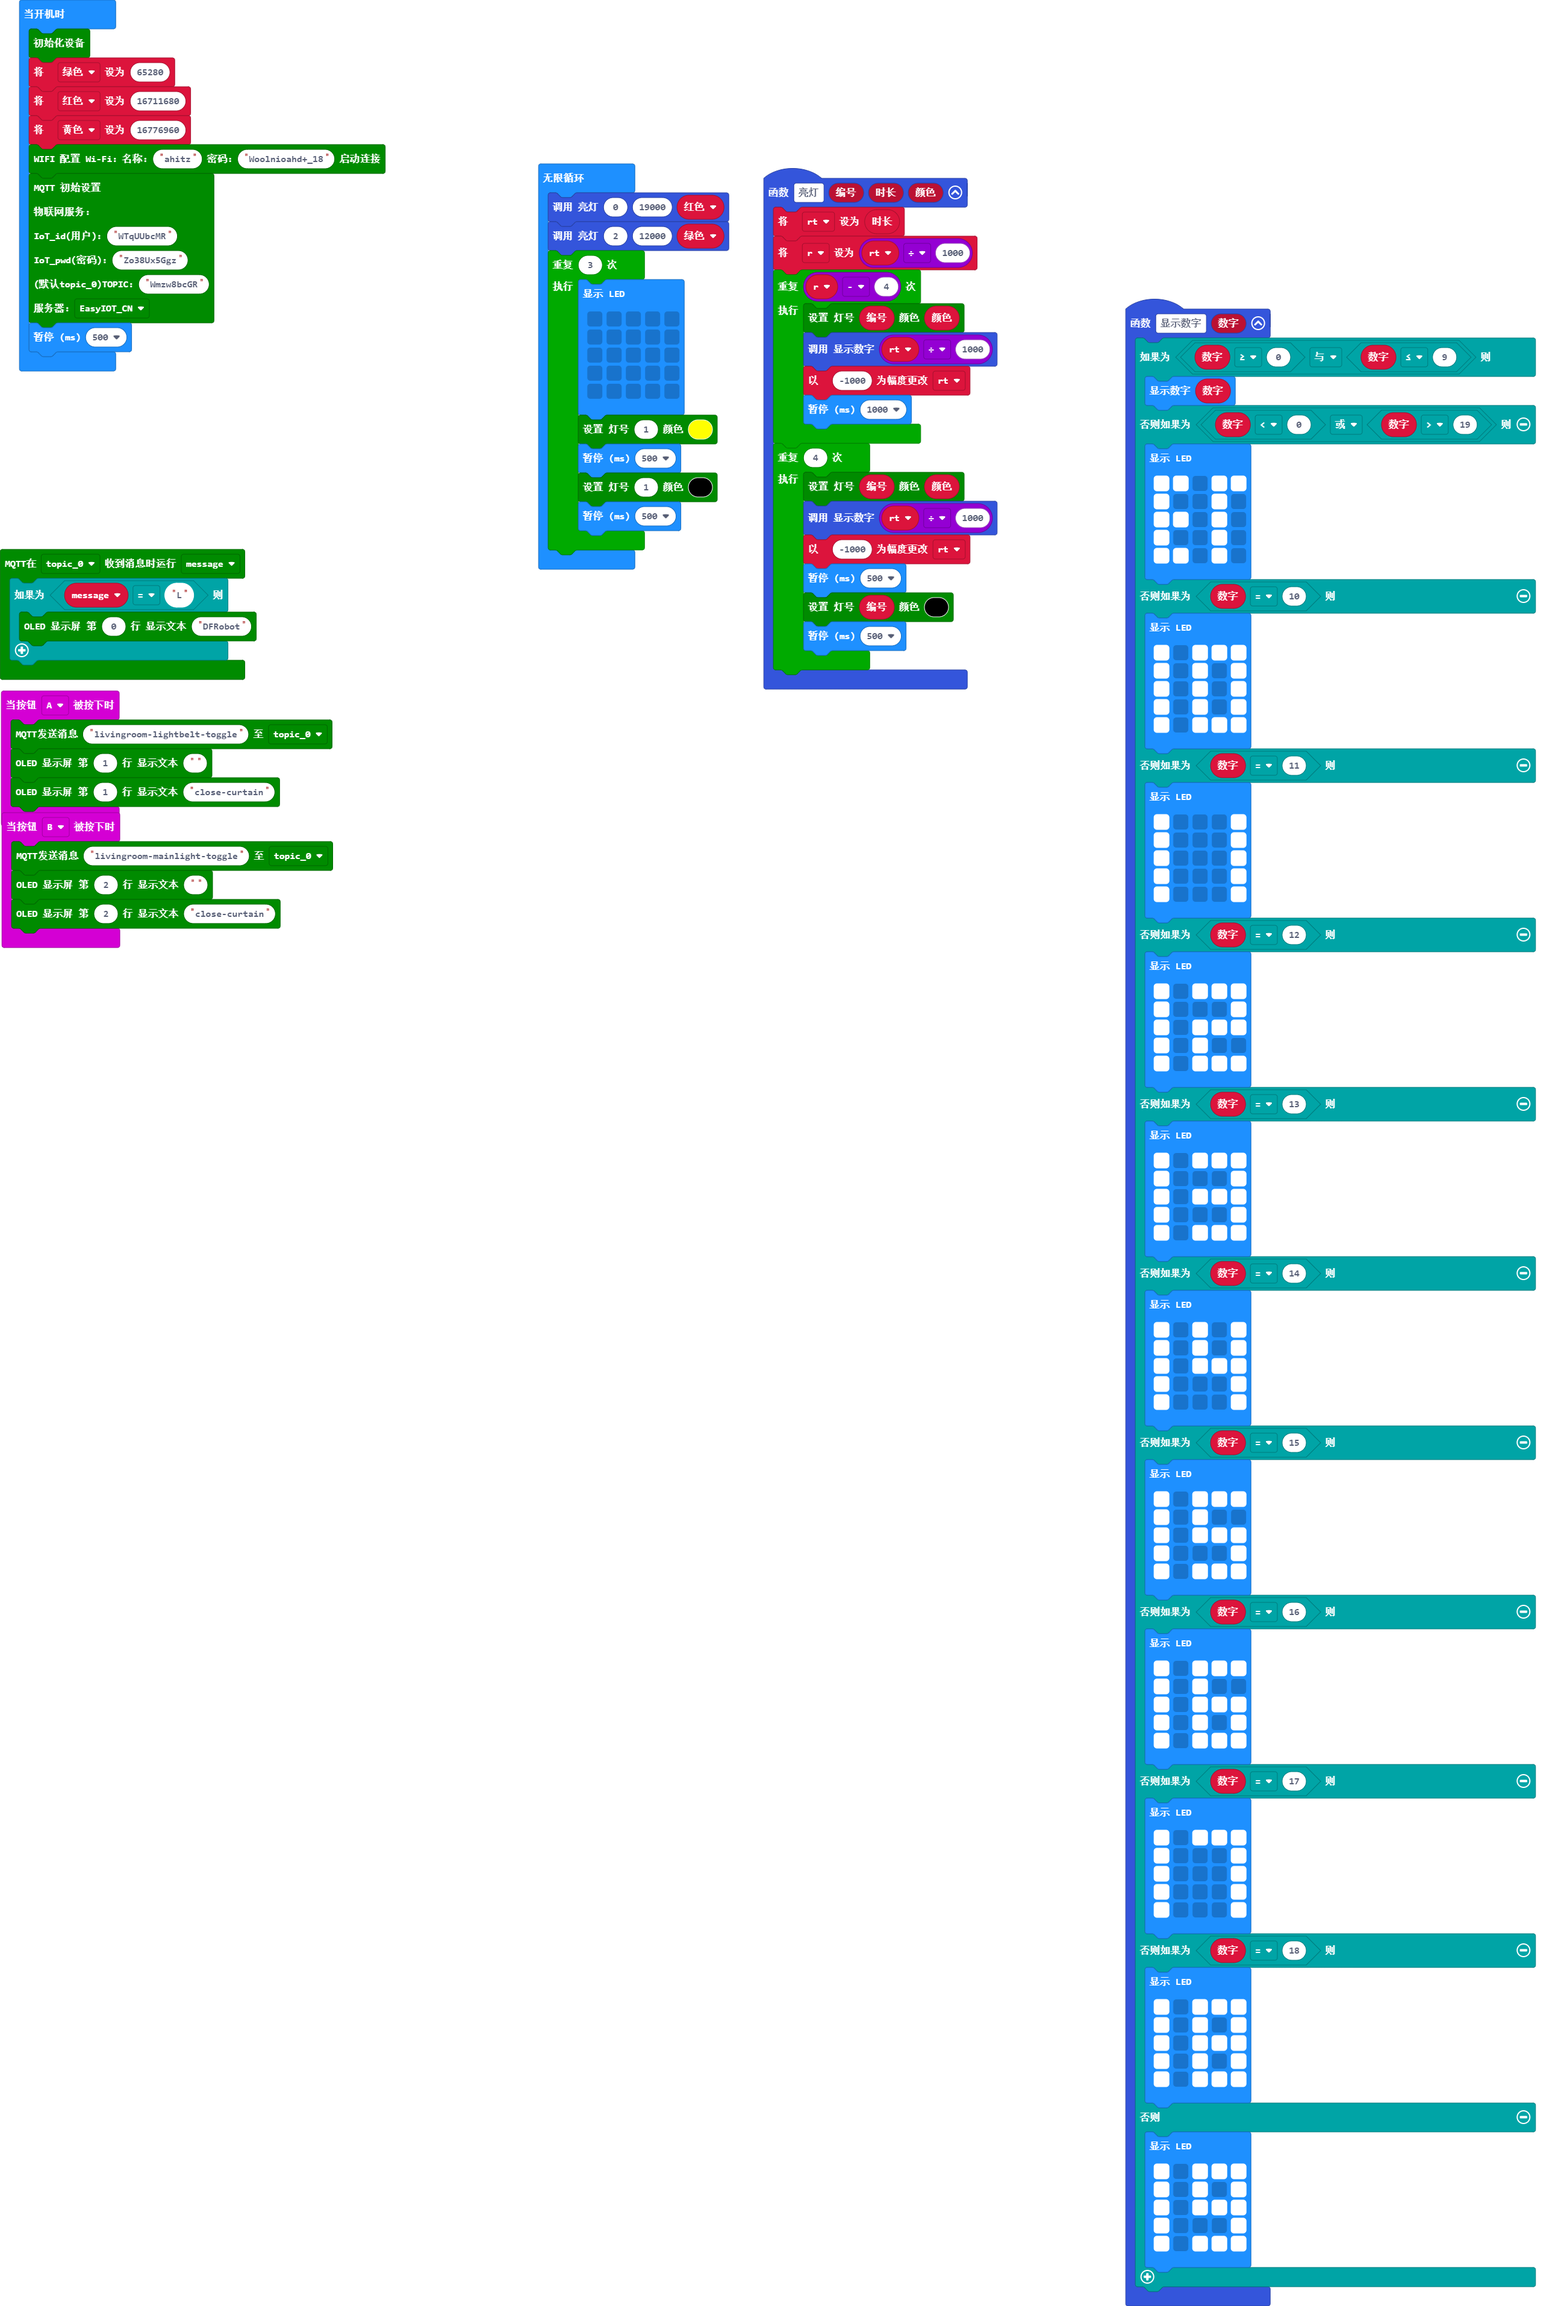
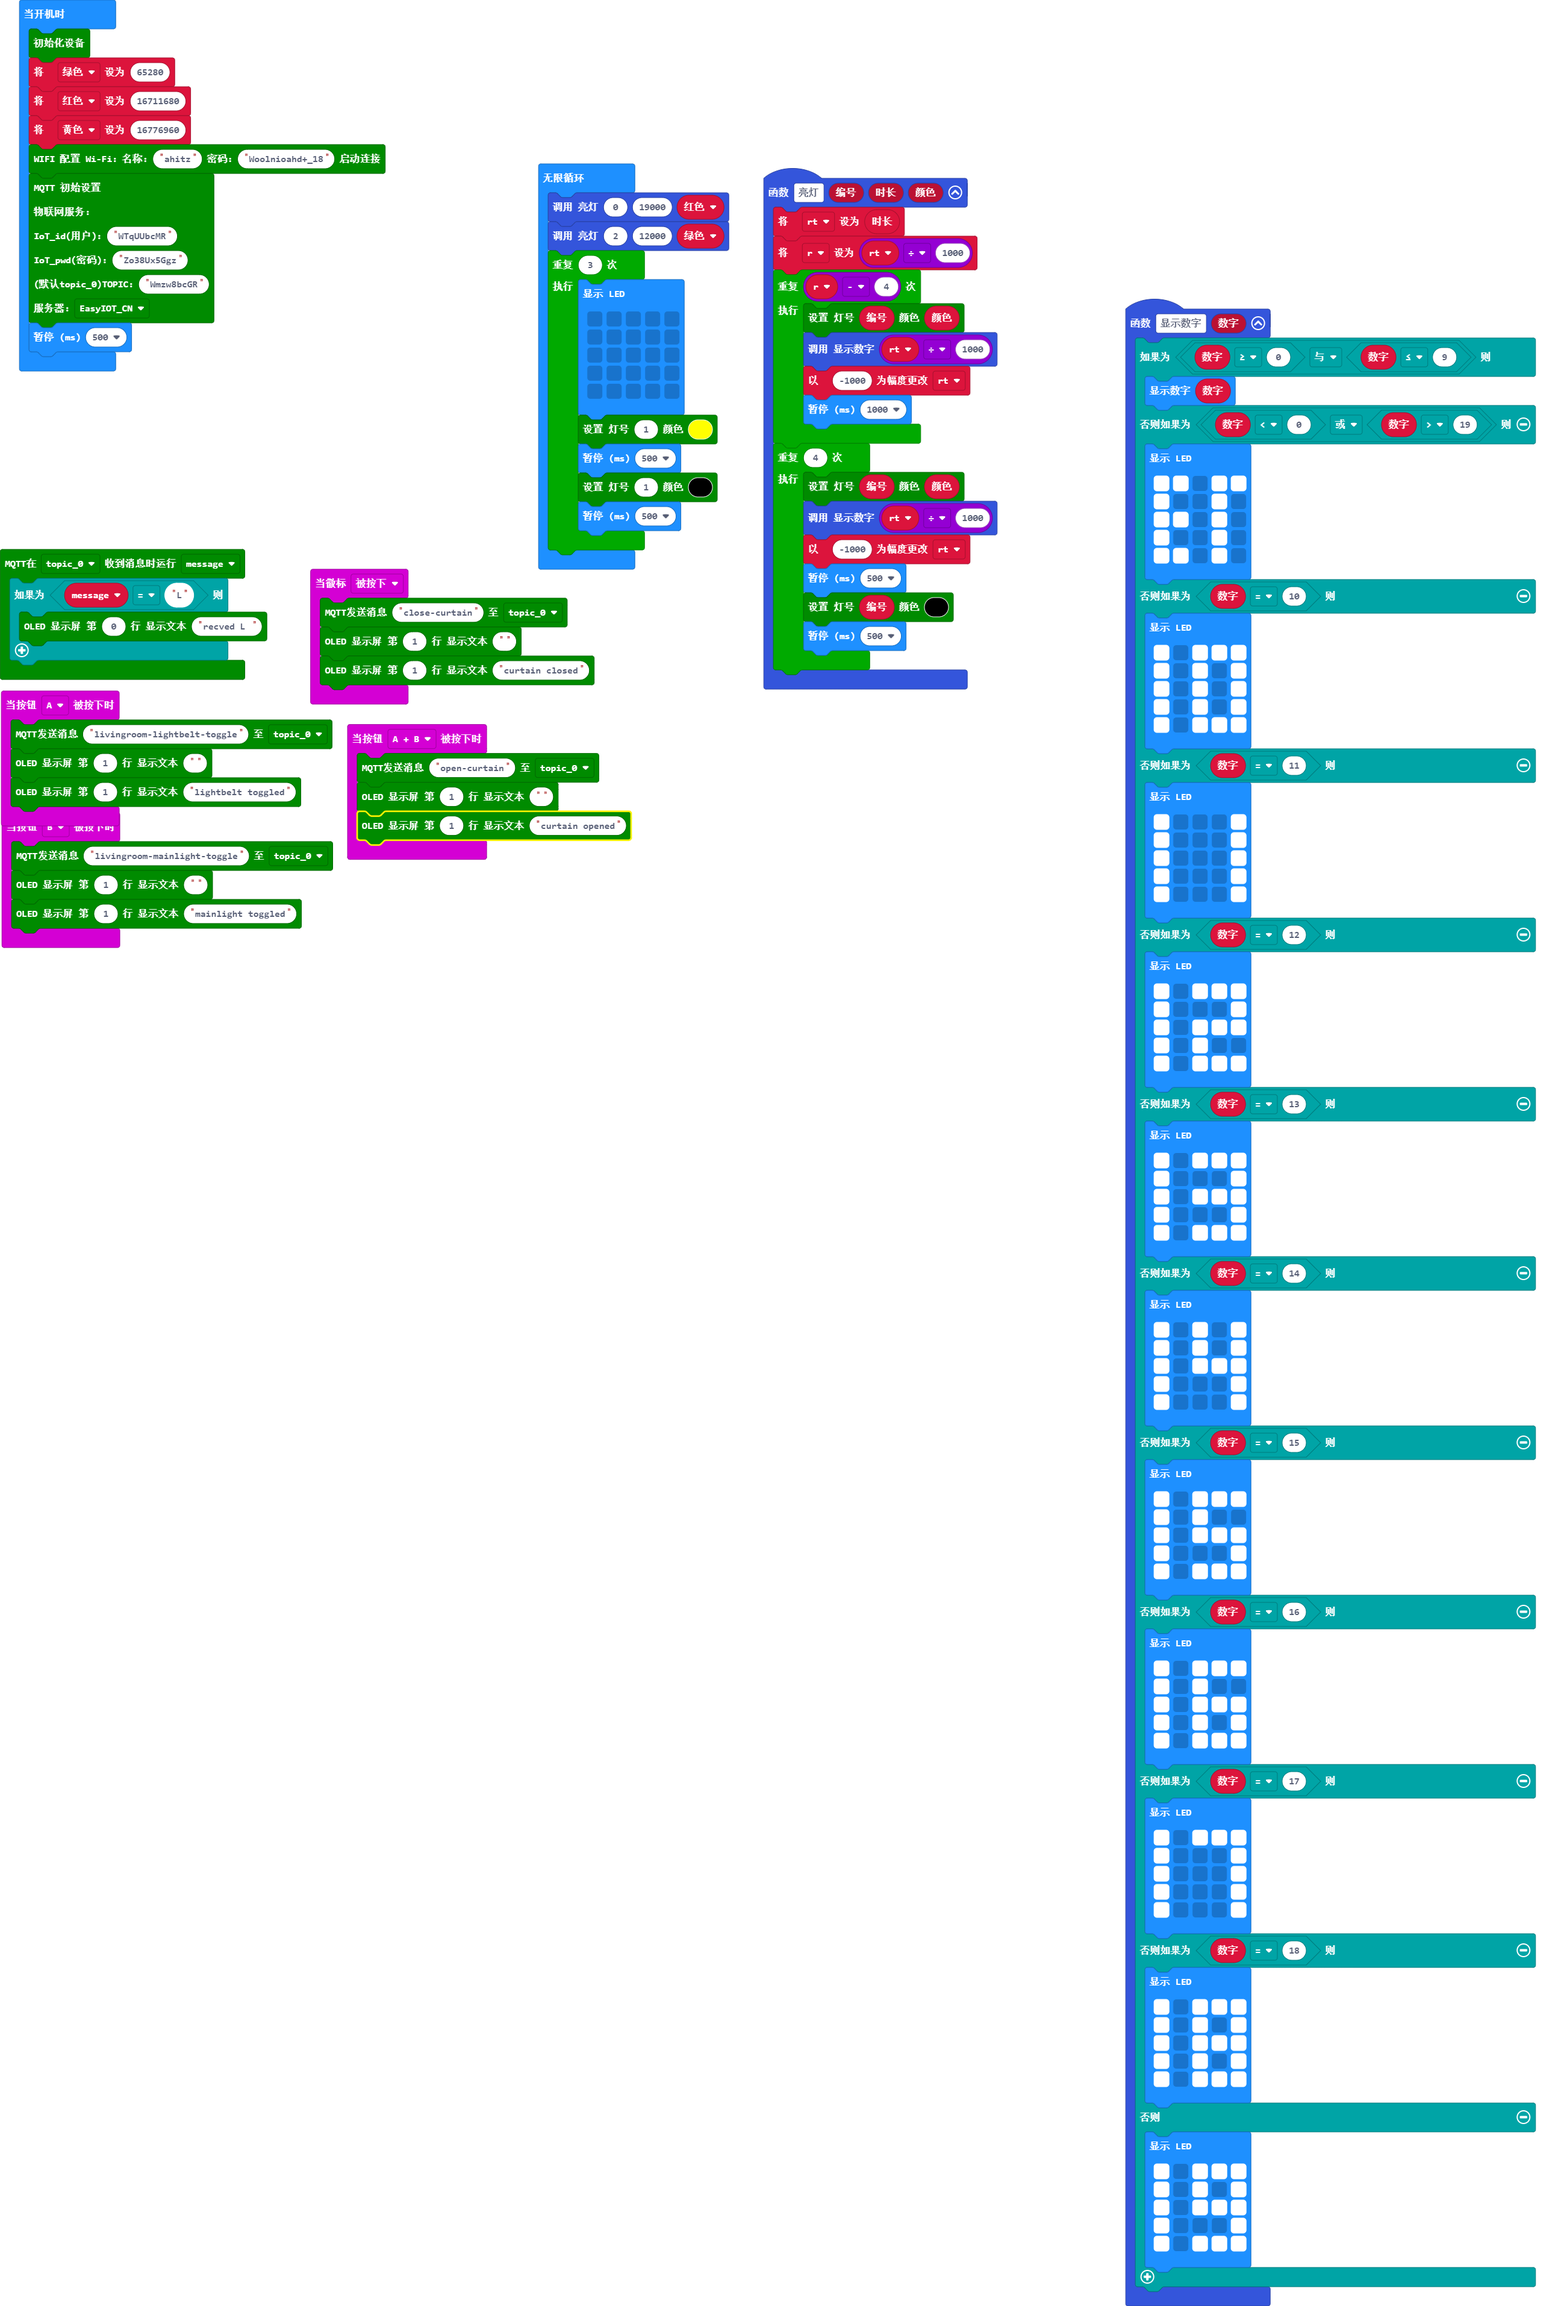
更新 main.blocks, main.ts

Changed region(s): [[0.1556, 0.2487, 0.4047, 0.373], [0.1556, 0.373, 0.1868, 0.4041]]

diff --git a/main.ts b/main.ts
@@ -1,3 +1,8 @@
+input.onLogoEvent(TouchButtonEvent.Pressed, function () {
+    microIoT.microIoT_SendMessage("close-curtain", microIoT.TOPIC.topic_0)
+    microIoT.microIoT_showUserText(1, "")
+    microIoT.microIoT_showUserText(1, "curtain closed")
+})
 function 显示数字 (数字: number) {
     if (数字 >= 0 && 数字 <= 9) {
         basic.showNumber(数字)
@@ -93,18 +98,23 @@ function 显示数字 (数字: number) {
 }
 microIoT.microIoT_MQTT_Event(microIoT.TOPIC.topic_0, function (message) {
     if (message == "L") {
-        microIoT.microIoT_showUserText(0, "DFRobot")
+        microIoT.microIoT_showUserText(0, "recved L ")
     }
 })
 input.onButtonPressed(Button.A, function () {
     microIoT.microIoT_SendMessage("livingroom-lightbelt-toggle", microIoT.TOPIC.topic_0)
     microIoT.microIoT_showUserText(1, "")
-    microIoT.microIoT_showUserText(1, "close-curtain")
+    microIoT.microIoT_showUserText(1, "lightbelt toggled")
+})
+input.onButtonPressed(Button.AB, function () {
+    microIoT.microIoT_SendMessage("open-curtain", microIoT.TOPIC.topic_0)
+    microIoT.microIoT_showUserText(1, "")
+    microIoT.microIoT_showUserText(1, "curtain opened")
 })
 input.onButtonPressed(Button.B, function () {
     microIoT.microIoT_SendMessage("livingroom-mainlight-toggle", microIoT.TOPIC.topic_0)
-    microIoT.microIoT_showUserText(2, "")
-    microIoT.microIoT_showUserText(2, "close-curtain")
+    microIoT.microIoT_showUserText(1, "")
+    microIoT.microIoT_showUserText(1, "mainlight toggled")
 })
 function 亮灯 (编号: number, 时长: number, 颜色: number) {
     rt = 时长
